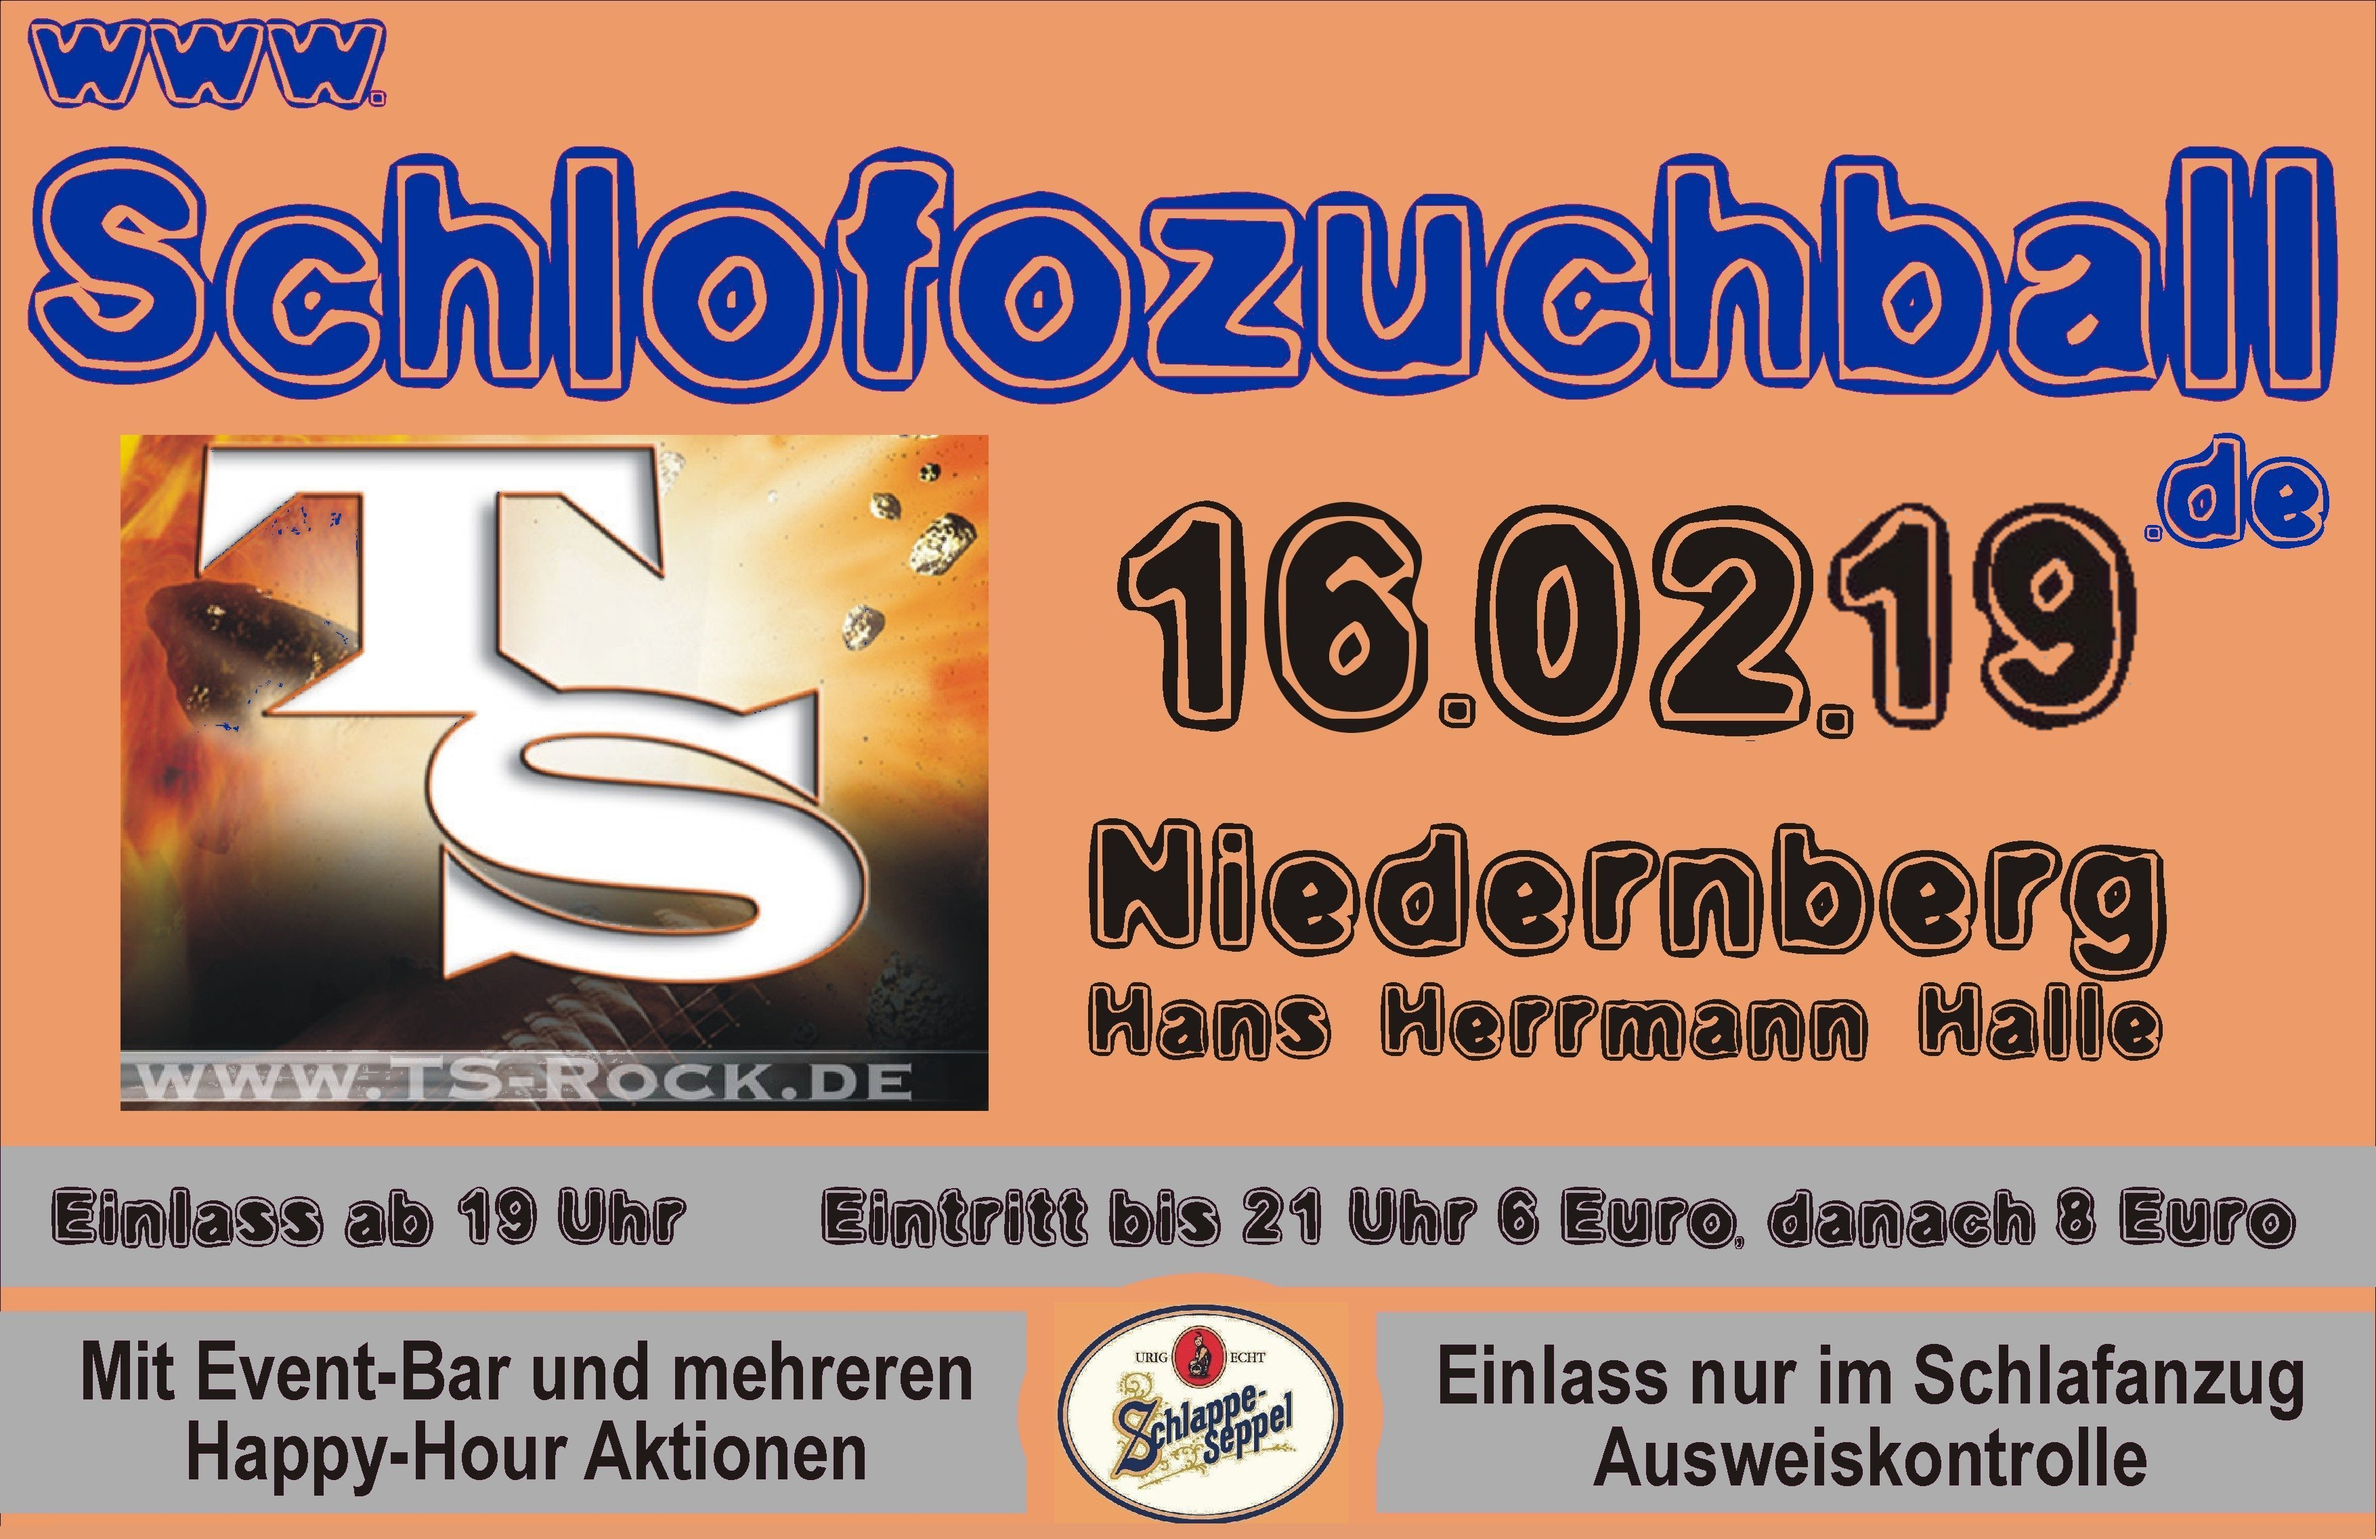
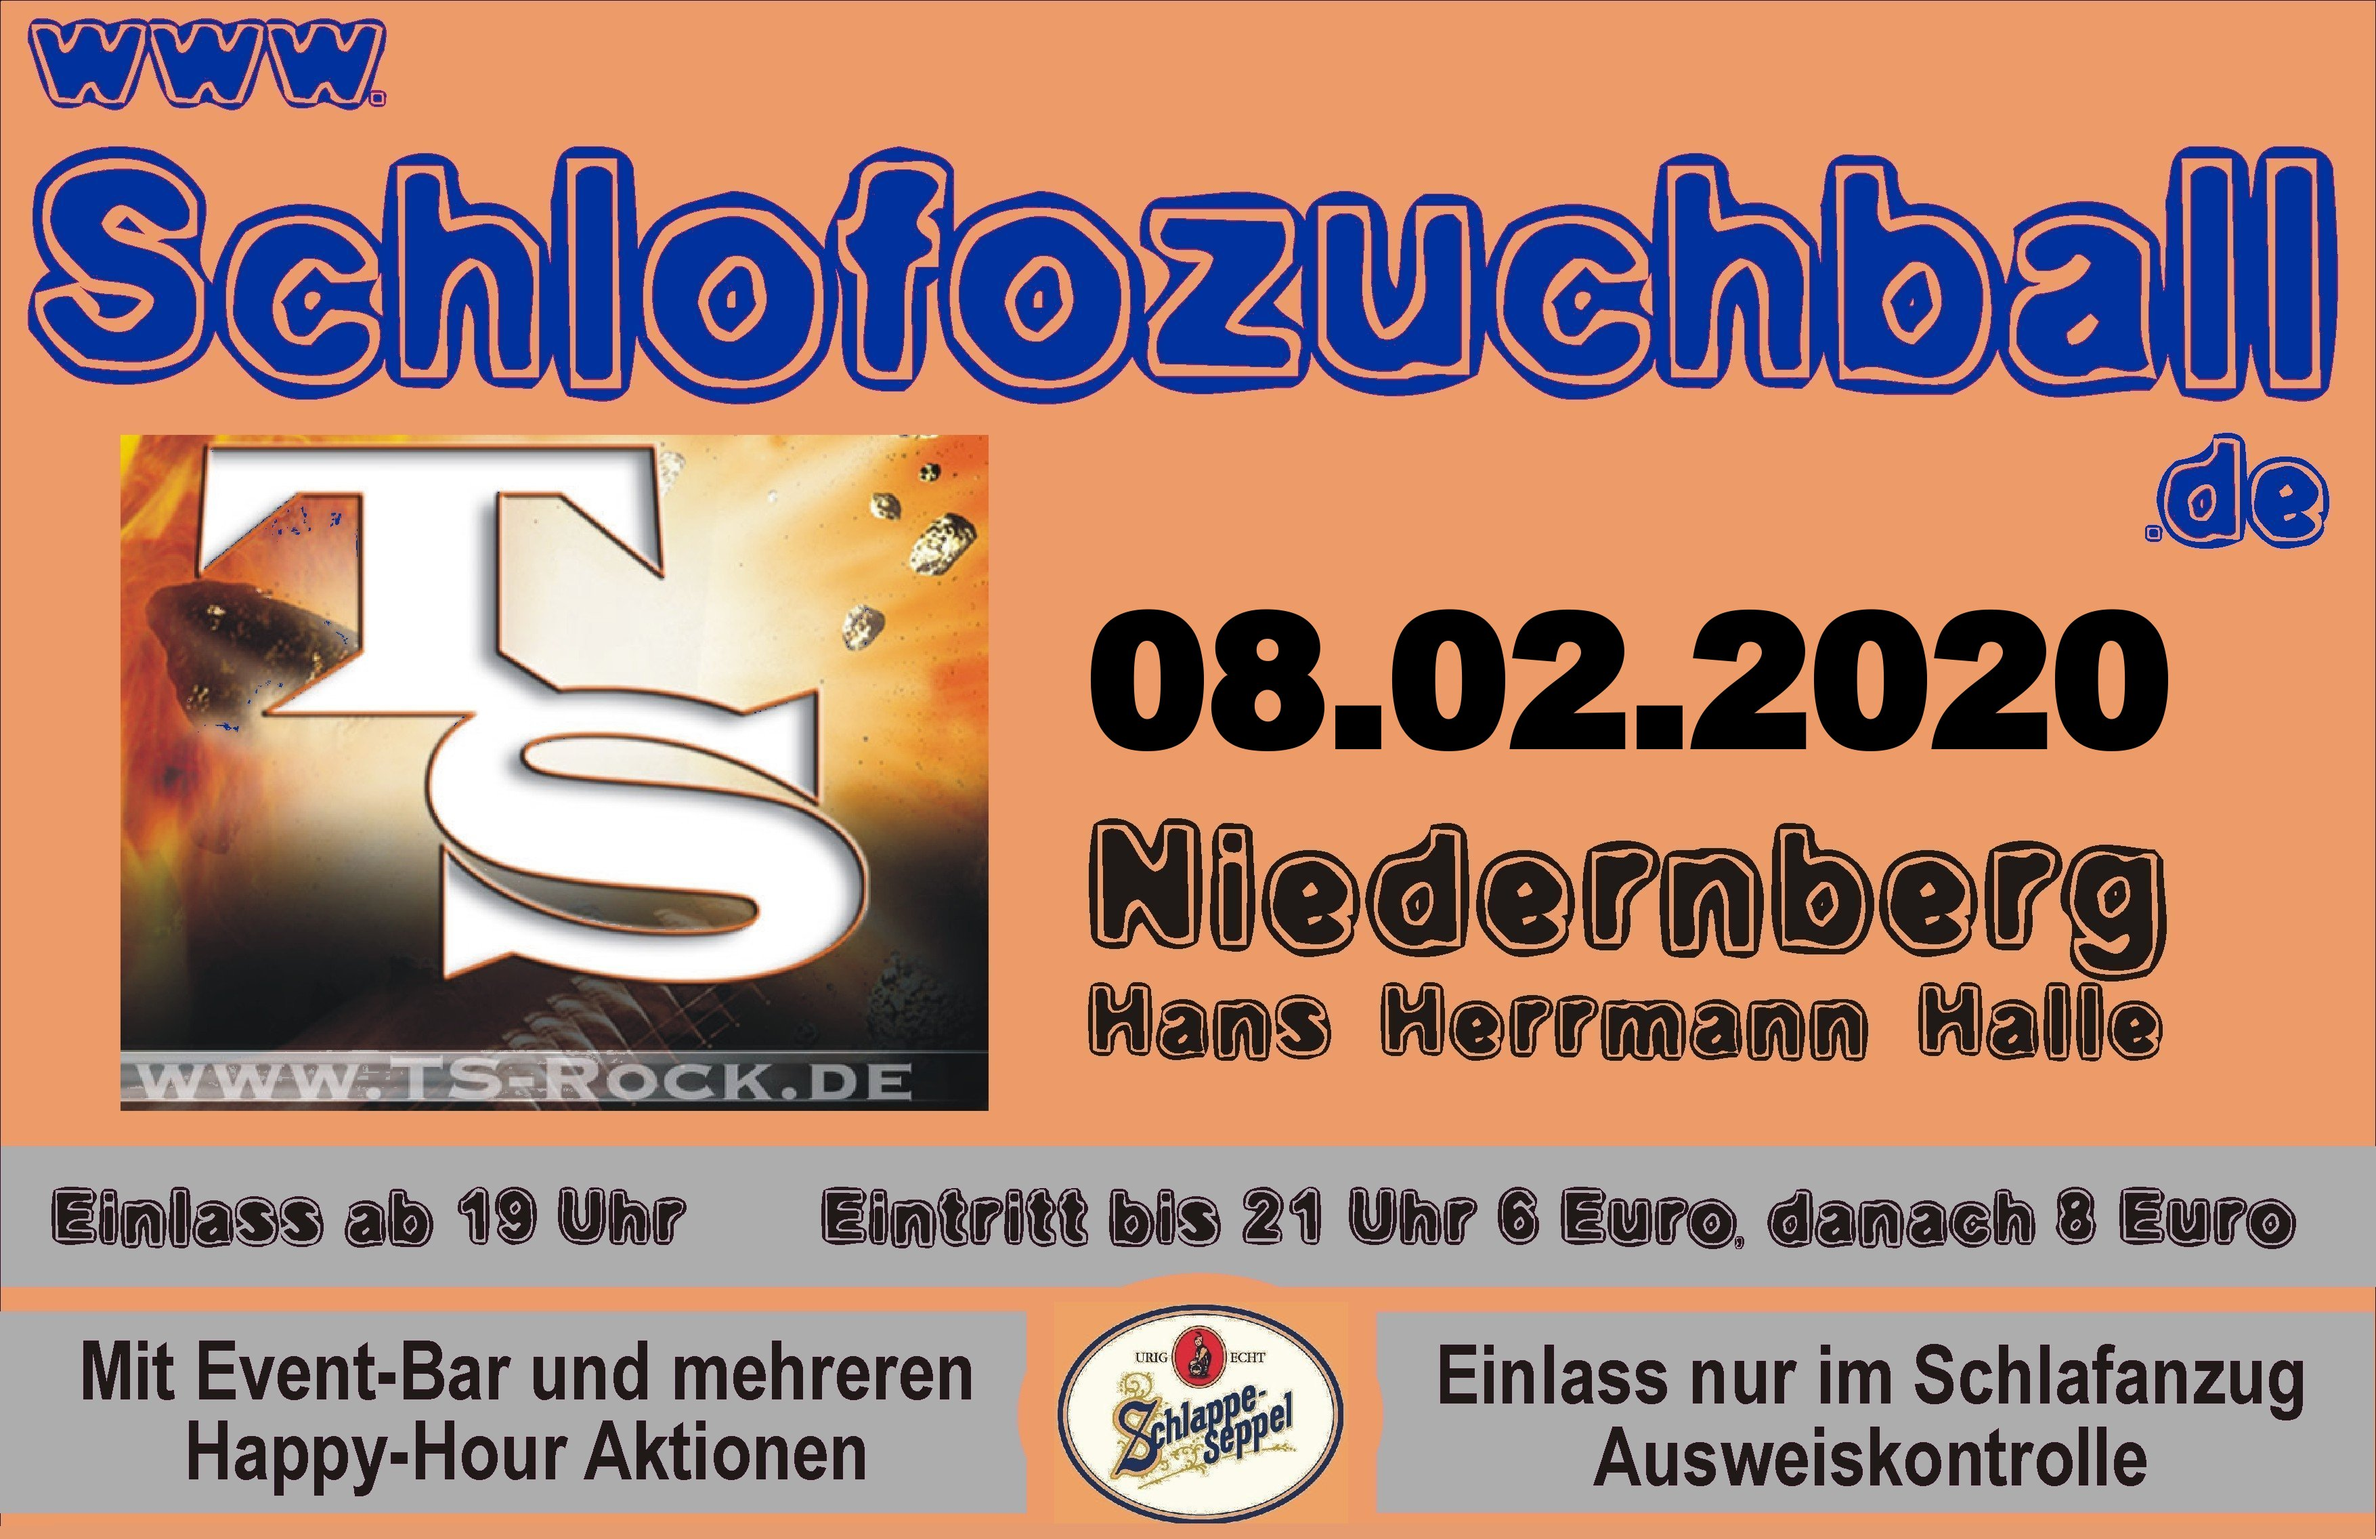
bump date to 08. Februar 2020

Changed region(s): [[0.4349, 0.3125, 0.9319, 0.5]]

diff --git a/index.php b/index.php
@@ -3,9 +3,9 @@
 include "template/headerMenu.php";
 ?>
 
-<!--<img src="bilder/banner.png" width="100%" alt="Schlofozuchball 2019" /><br /><br />-->
+<!--<img src="bilder/banner.png" width="100%" alt="Schlofozuchball 2020" /><br /><br />-->
 
-<h1>Schlofozuchball 2019</h1>
+<h1>Schlofozuchball 2020</h1>
 <br />
 
 <span class="big"><b>Herzlich Willkommen</b> auf der offiziellen Webseite zum Niedernberger Schlofozuchball!</span>
@@ -33,9 +33,9 @@ Das Mindestalter ist 16 Jahre!
 </td><td class="separatorRight"></td><td>
 
 <span id="termin">
-<h2>Termin 2019</h2><br />
+<h2>Termin 2020</h2><br />
 <table border="0" cellspacing="0" cellpadding="5">
-<tr><td><b>Wann:</b></td><td>Samstag, der 16. Februar 2019, 20:00 Uhr<br /><i>(Einlass ab 19 Uhr)</i></td></tr>
+<tr><td><b>Wann:</b></td><td>Samstag, der 16. Februar 2020, 20:00 Uhr<br /><i>(Einlass ab 19 Uhr)</i></td></tr>
 <tr><td><b>Wo:</b></td><td>Hans Herrmann Halle, Niedernberg (siehe <a href="weg.php">Wegbeschreibung</a>)</td></tr>
 <tr><td><b>Einlass ab:</b></td><td>16 Jahren. Ausweiskontrolle!</td></tr>
 <tr><td><b>Motto:</b></td><td>Jeder kommt im Schlafanzug!</td></tr>
@@ -43,7 +43,7 @@ Das Mindestalter ist 16 Jahre!
 </span>
 
 <!--<span id="schlofozuchball-vorbei-hinweis">
-<span class="big"><b>Vielen Dank für einen gelungenen Schlofozuchball 2019!</b></span><br /><br />
+<span class="big"><b>Vielen Dank für einen gelungenen Schlofozuchball 2020!</b></span><br /><br />
 Wir hoffen, dass es Dir gefallen hat und dass Du nächstes jahr wieder kommst.<br /><br />
 <span class="big">Falls Du etwas verloren hast, kannst Du unsere <a href="fundgrube.php">Fundgrube</a> besuchen.</span>
 </span>-->
@@ -67,7 +67,7 @@ Bitte beachte für einen reibungslosen Abend folgende Punkte:<br />
 </td></tr></table>
 
 <h2>Du möchtest Werbung für den Schlofozuchball machen?</h2><br />
-<span class="big"><a href="werbung.php">Hier geht's zum offiziellen Werbebanner für den Schlofozuchball 2019</a></span>
+<span class="big"><a href="werbung.php">Hier geht's zum offiziellen Werbebanner für den Schlofozuchball 2020</a></span>
 
 
 <?php

diff --git a/fundgrube.php b/fundgrube.php
@@ -8,7 +8,7 @@ include "template/headerMenu.php";
 
 <h2>Was ist die Fundgrube?</h2><br />
 Beim Schlofozuchball passiert es schnell, dass Du etwas verlierst.<br />
-Damit du deine Sachen möglichst schnell wiederbekommst, bieten wir 2019 wie bisher eine Fundgrube an.<br /><br />
+Damit du deine Sachen möglichst schnell wiederbekommst, bieten wir 2020 wie bisher eine Fundgrube an.<br /><br />
 Wenn Du <b>während der Veranstaltung</b> etwas verlierst, fragst Du bitte zuerst an der <b>Garderobe</b> nach, vielleicht es jemand bereits dort abgegeben...
 <br /><br />
 

diff --git a/werbung.php b/werbung.php
@@ -2,13 +2,13 @@
         include "template/headerMenu.php";
 ?>
 
-<h2>Der offizielle Werbebanner f&uuml;r den Schlofozuchball 2019</h2>
+<h2>Der offizielle Werbebanner f&uuml;r den Schlofozuchball 2020</h2>
 <br />
 
 <a href="bilder/banner_hq.jpg" target="blank">Den Werbebanner in hoher Aufl&ouml;sung herunterladen...</a><br />
 
 <br />
-<img src="bilder/banner.jpg" alt="Werbebanner Schlofozuchball 2019" style="margin-left: 20px;" />
+<img src="bilder/banner.jpg" alt="Werbebanner Schlofozuchball 2020" style="margin-left: 20px;" />
 
 
 <?php

diff --git a/weg.php b/weg.php
@@ -7,7 +7,7 @@ include "template/headerMenu.php";
 <br />
 
 <h2>Ort</h2><br />
-<span class="big">Der Schlofozuchball findet 2019 wie jedes Jahr in der <b>Hans Herrmann Halle Niedernberg</b> statt.</span><br /><br />
+<span class="big">Der Schlofozuchball findet 2020 wie jedes Jahr in der <b>Hans Herrmann Halle Niedernberg</b> statt.</span><br /><br />
 Adresse:<br />
 <span class="big" id="adresse"><b>Leerweg<br />
 63843 Niedernberg</b></span>

diff --git a/template/footer.php b/template/footer.php
@@ -4,7 +4,7 @@
 
 		<!-- Footer -->
 			<tr><td colspan="2" id="footer">
-				&copy; Musikcorps Niedernberg 2011-2019 | <a href="impressum.php">Impressum</a>
+				&copy; Musikcorps Niedernberg 2011-2020 | <a href="impressum.php">Impressum</a>
 			</td></tr>
 		<!-- Ende Footer -->
 

diff --git a/template/headerMenu.php b/template/headerMenu.php
@@ -2,7 +2,7 @@
 <html>
 
   <head>
-    <title>Schlofozuchball 2019</title>
+    <title>Schlofozuchball 2020</title>
     <link rel="stylesheet" type="text/css" href="css/default.css" />
 
     <meta charset="utf-8" />
